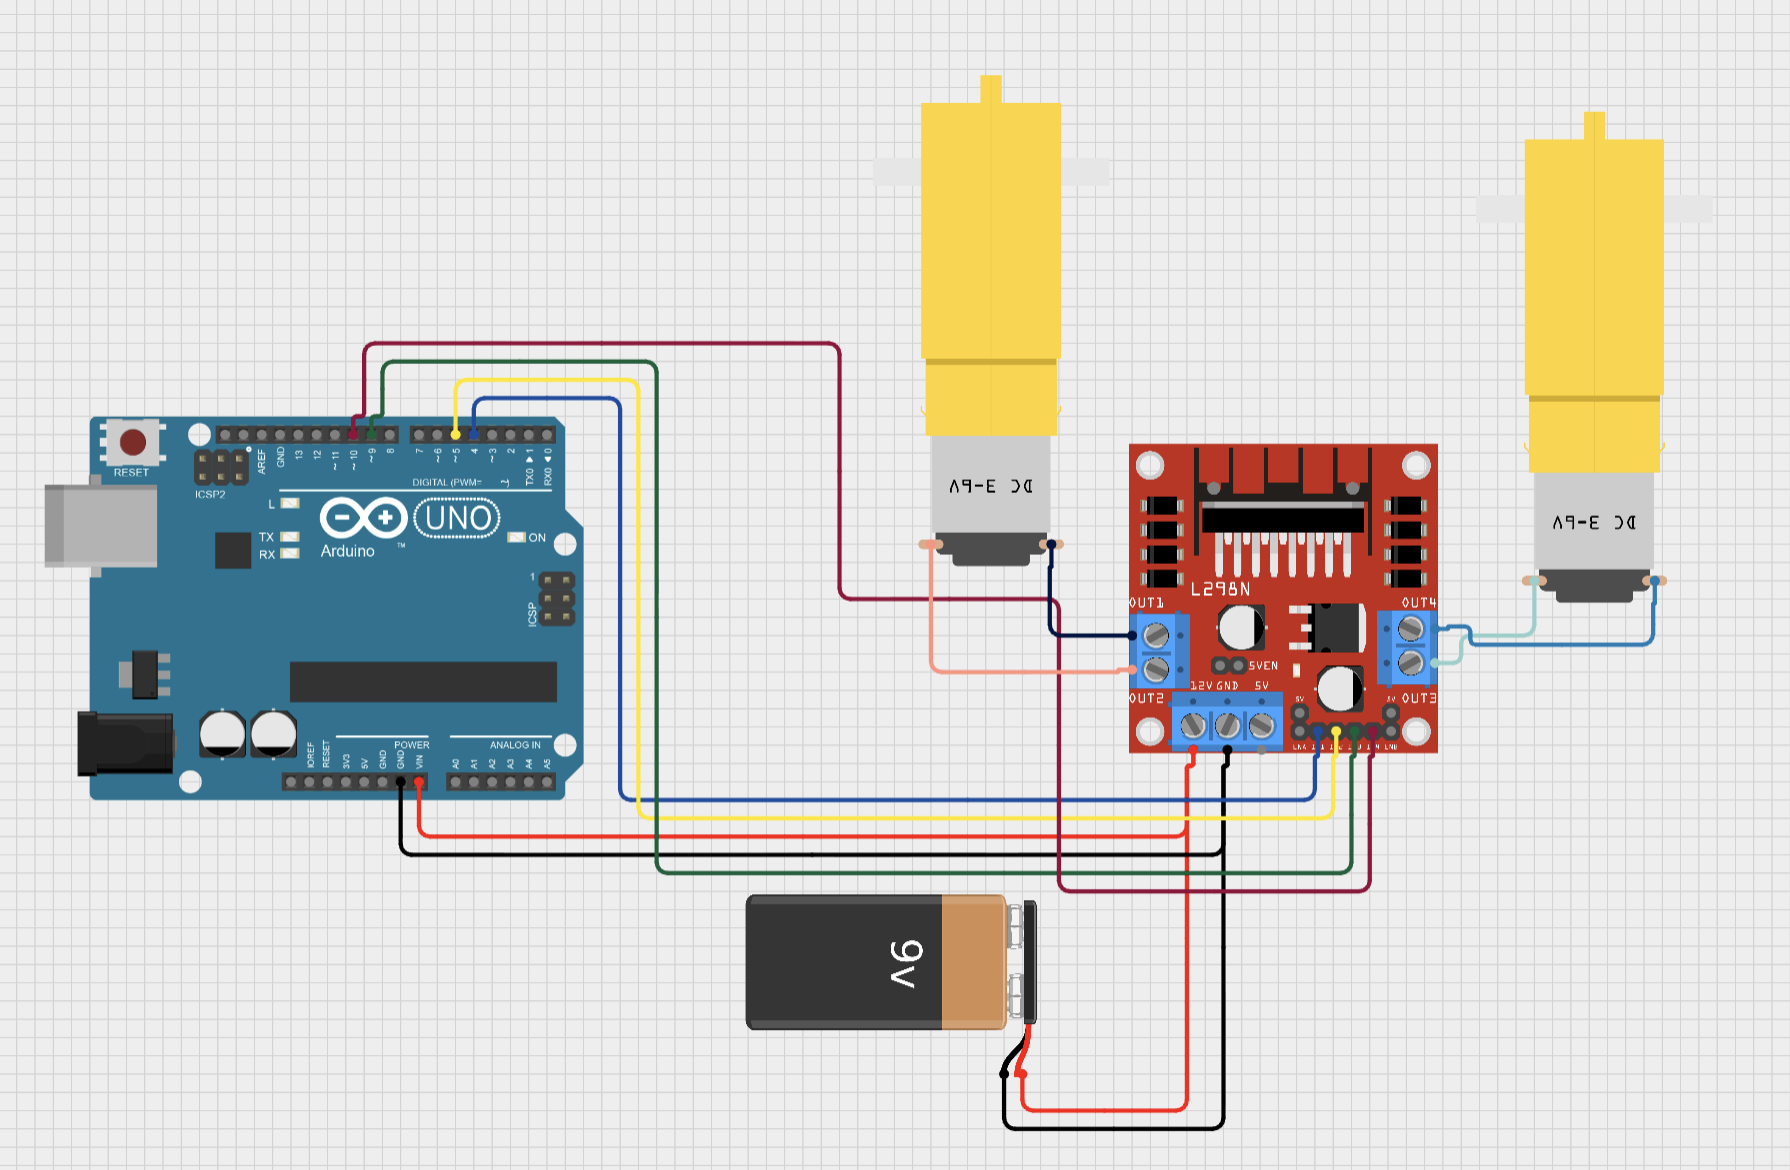
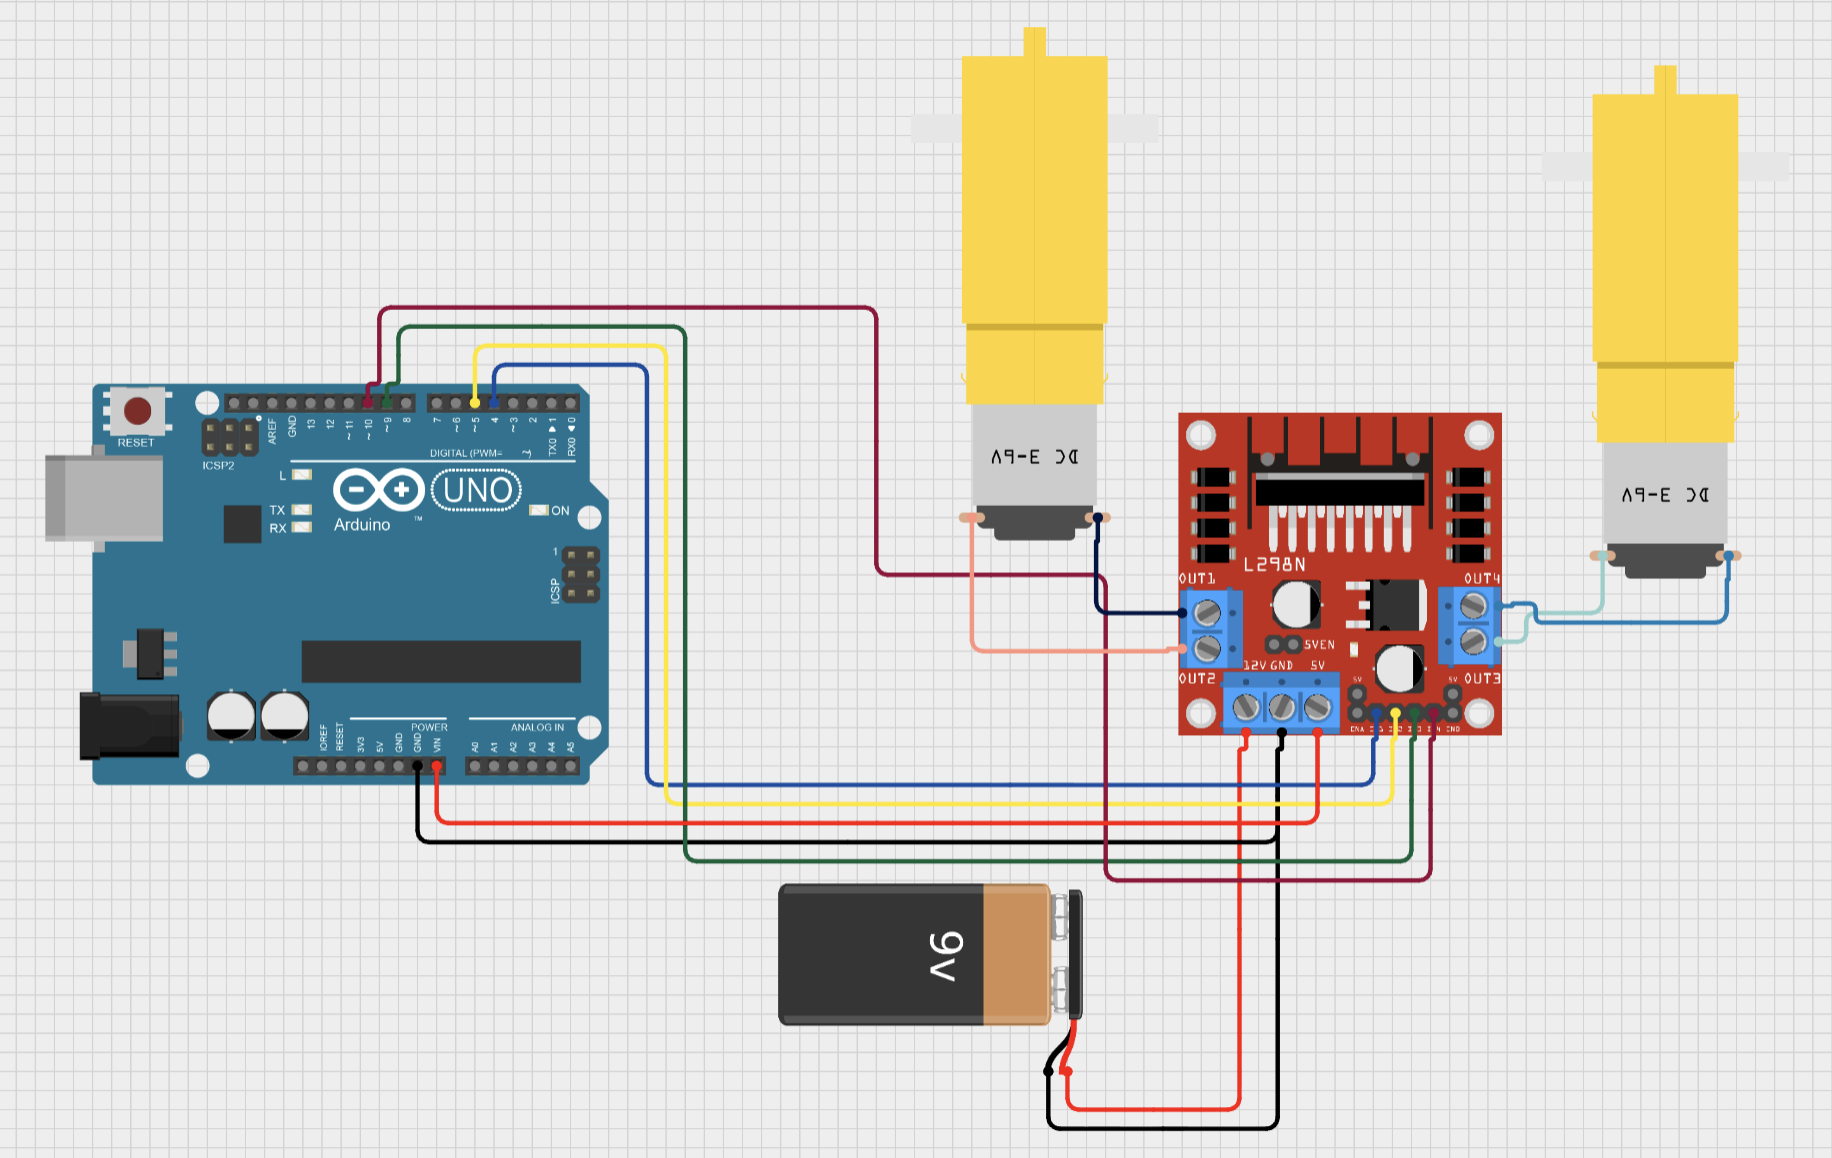
fix: Update Origami Bot schematic and clarify power supply instructions

Changed region(s): [[0.0307, 0.0, 0.9525, 0.9948], [0.0, 0.4663, 0.0922, 0.4974]]

diff --git a/docs/assignments/origami_bot.rst b/docs/assignments/origami_bot.rst
@@ -60,30 +60,15 @@ The schematic for the Origami Bot is shown below:
 
 .. figure:: ../images/origami_bot_schematic.png
     :alt: Origami Bot Schematic
+    :figwidth: 80%
+    :align: center
 
     The schematic for the Origami Bot. Follow the wire connections to connect the H-Bridge, Arduino, and motors together.
 
-.. warning::
-
-    The **Origami Bot PDF** on Canvas does **not** use this schematic. Instead, it removes the breadboard by supplying power directly from the battery pack to the H-Bridge. The H-Bridge then supplies power to the Arduino.
-
-    This is a more advanced setup, you can use whichever schematic/setup you prefer. The Foundations TAs can help you with either setup. To remove the breadboard, do the following:
-
-    - Supply the power and ground from the battery pack to the H-Bridge, noting that the power from the battery must be plugged into the ``12V`` terminal on the H-Bridge.
-    - Supply power to the Arduino from the H-Bridge using the ``5V`` terminal on the H-Bridge into the ``VIN`` pin on the Arduino. This will power the Arduino.
-
 .. important::
 
-    This schematic shows the use of the ``6V`` power supply. You can also use a ``9V`` battery and the included adapter in your Project kit.
+    This schematic shows the use of the ``9V`` battery. You can also use a ``6V`` battery pack (``4 AA`` batteries) to power the robot. The ``9V`` battery is more consistent in power delivery, it is not advised to use the ``6V`` battery pack as it struggles to supply enough current to the motors.
 
-    Additionally, you can power the robot using the USB cable connected to your computer. However, this requires you to change the wiring on your circuit. The Foundations TAs can help you with this if needed, but the ``6V`` or ``9V`` power supply is recommended.
-
-Note how the H-bridge and Arduino power and ground are connected to the breadboard. An Arduino Uno
-can only supply ``5V`` of power. But, the four ``AA`` batteries can supply 6V of power (``1.5V * 4V = 6V``).
-
-The H-bridge, however, can handle up to ``46V`` of power! In other words, the H-bridge
-loves power! A higher supply of power means the motors can run faster and have more torque.
-So, by plugging the H-bridge and Arduino Uno into the breadboard, you can power the motors with ``6V`` of power instead of ``5V``.
 
 .. important::
 
